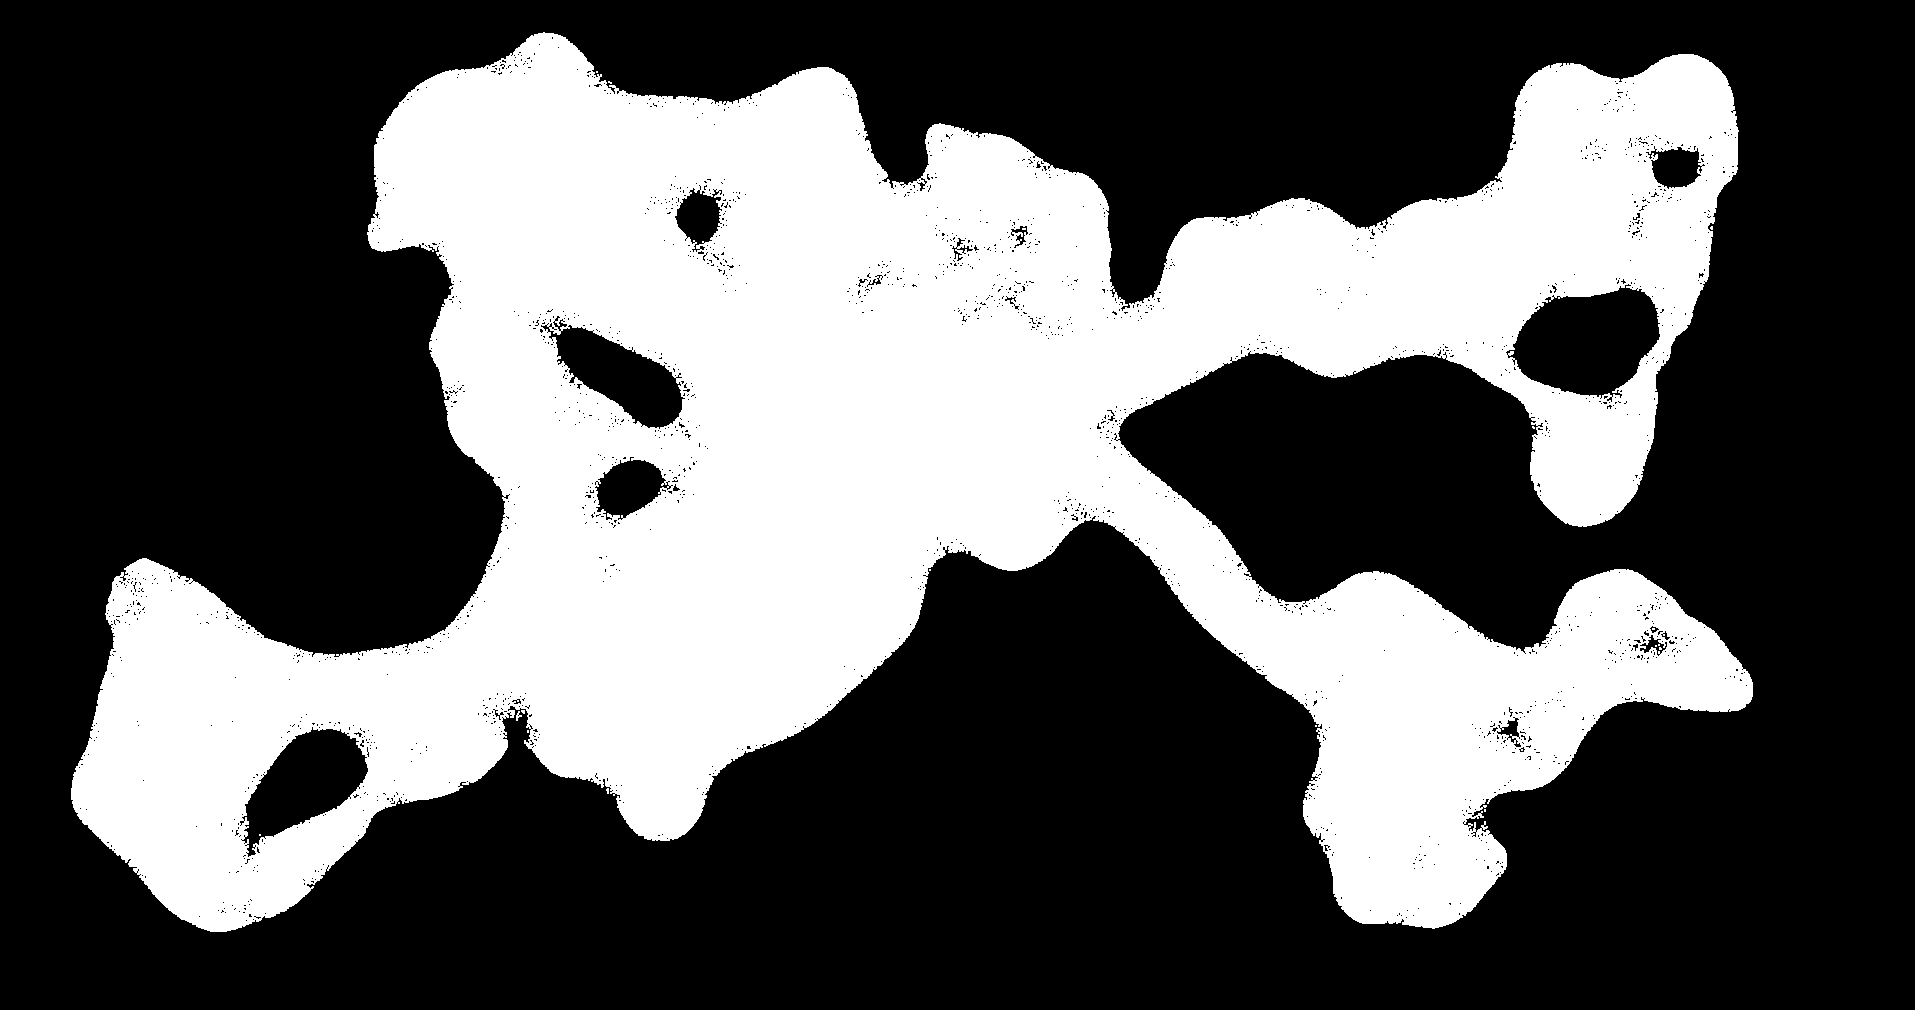
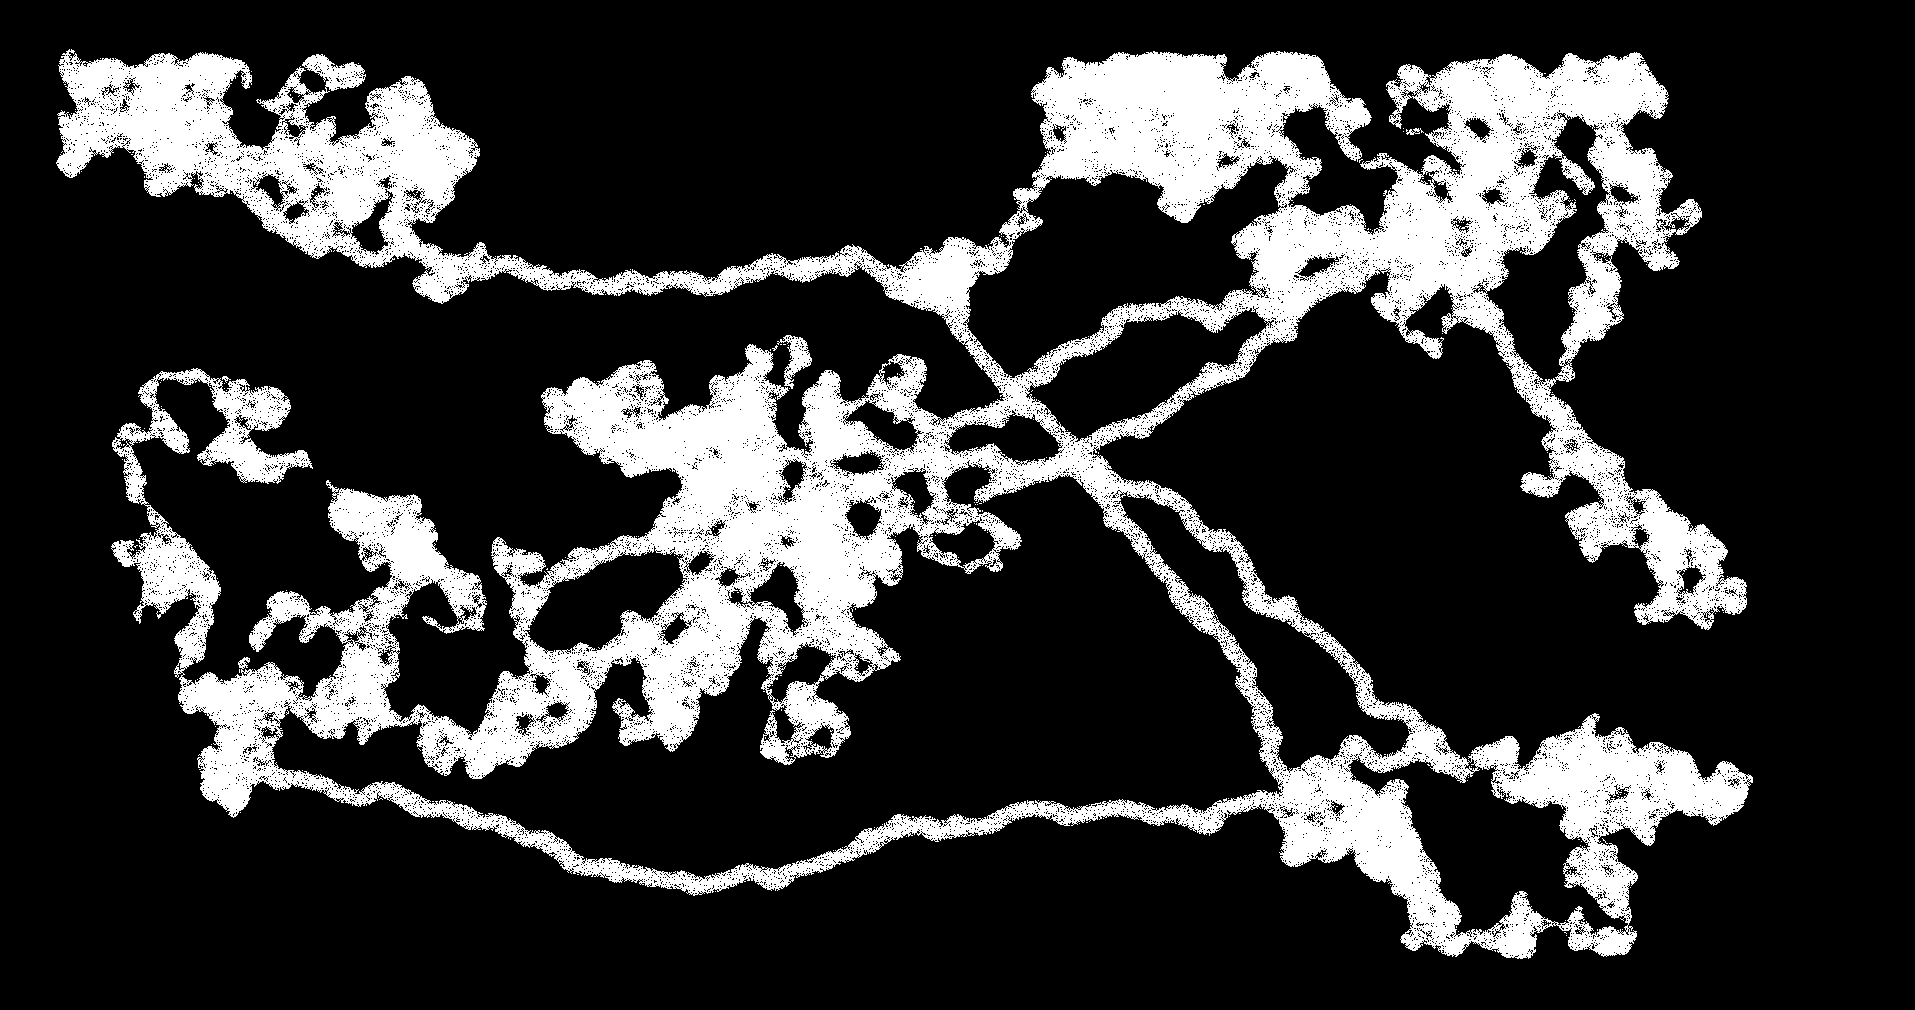
Optimized saving and drawing map logic

diff --git a/MapGenerator.py b/MapGenerator.py
@@ -53,8 +53,8 @@ class MapGenerator():
         self.process_map()
 
         # Display and save the map
-        self.draw_map(self.bin_map)
         self.save_map()
+        self.draw_map()
         
     # Create multiple worms and let them eat the map simultaneously
     # while displaying the loading screen
@@ -122,8 +122,8 @@ class MapGenerator():
         return cleaned_image
 
     # Dispaly the map in the window
-    def draw_map(self, input_map, x1=0, x2=Assets.FULLSCREEN_W-1, y1=0, y2=Assets.FULLSCREEN_H-1):
-        self.surface = self.game.to_maximised()
+    def draw_map(self): #, input_map, x1=0, x2=Assets.FULLSCREEN_W-1, y1=0, y2=Assets.FULLSCREEN_H-1):
+        """ self.surface = self.game.to_maximised()
 
         # Make the background black
         self.surface.fill(Assets.Colors['BLACK'].value)
@@ -136,24 +136,32 @@ class MapGenerator():
                     case 0: pygame.draw.circle(self.surface, Assets.Colors['WHITE'].value, (x,y), 1)
                     case 2: pygame.draw.circle(self.surface, Assets.Colors['RED'].value, (x,y), 1)
                     
+        self.game.blit_screen() """
+
+        # Maximise the game window
+        self.surface = self.game.to_maximised()
+
+        # Set the map as the new background
+        background_image = pygame.image.load(Assets.Images['CAVE_MAP'].value)
+        self.surface.blit(background_image, (0, 0))
         self.game.blit_screen()
 
     # Save the generated map
     def save_map(self):
-        # Ensure the folder exists, create it if not
-        if not os.path.exists(os.path.join('Assets', 'Cave_map')):
-            os.makedirs(os.path.join('Assets', 'Cave_map'))
-        
-        pygame.image.save(self.surface, Assets.Images['CAVE_MAP'].value)
-        
-        # Set the saved image as the new background
-        background_image = pygame.image.load(Assets.Images['CAVE_MAP'].value)
-         # Clear the game window
-        self.surface.fill(Assets.Colors['BLACK'].value)
-        
-        background_image = pygame.transform.scale(background_image, (Assets.FULLSCREEN_W, Assets.FULLSCREEN_H)) 
-        self.surface.blit(background_image, (0, 0))
-        pygame.display.update()
+        # Ensure the folder exists, otherwise create it
+        if not os.path.exists(os.path.join('Assets', 'Cave_Map')):
+            os.makedirs(os.path.join('Assets', 'Cave_Map'))
+
+        # Change the current directory
+        directory = os.path.join(Assets.GAME_DIR, 'Assets', 'Cave_Map')
+        os.chdir(directory)
+
+        # Extend values from [0,1] to [0,255]
+        byte_map = np.where(self.bin_map==1, 0, 255)
+
+        # Save the map as a PNG image and change back the directory
+        cv2.imwrite('map.png', byte_map)
+        os.chdir(Assets.GAME_DIR)
        
     # Model a worm that eats away randomically at the map
     def worm(self, x, y, step, stren, life, id):

diff --git a/Assets.py b/Assets.py
@@ -5,12 +5,12 @@ from enum import Enum
 root = tkinter.Tk()
 
 # Game directory: ..\CaveGame
-CURRENT_DIR = os.path.dirname(os.path.abspath(__file__))
+GAME_DIR = os.path.dirname(os.path.abspath(__file__))
 
 # Display dimensions
 DISPLAY_W = 1200
 DISPLAY_H = 750
-FULLSCREEN_W = 1920 - 5
+FULLSCREEN_W = 1920 - 5 # root.winfo_screenwidth() - 5
 FULLSCREEN_H = root.winfo_screenheight() - 70
 
 # Lists for menu voices and settings
@@ -31,21 +31,21 @@ class Colors(Enum):
         BLUE       = (0,0,255)
         
 class Fonts(Enum):
-        BIG        = os.path.join(CURRENT_DIR, 'Assets', 'Fonts', 'Cave-Stone.ttf')  
-        SMALL      = os.path.join(CURRENT_DIR, 'Assets', 'Fonts', '8-BIT.TTF') 
+        BIG        = os.path.join(GAME_DIR, 'Assets', 'Fonts', 'Cave-Stone.ttf')  
+        SMALL      = os.path.join(GAME_DIR, 'Assets', 'Fonts', '8-BIT.TTF') 
         
 class Audio(Enum):
-        AMBIENT    = os.path.join(CURRENT_DIR, 'Assets', 'Audio', 'Menu.wav')
-        BUTTON     = os.path.join(CURRENT_DIR, 'Assets', 'Audio', 'Button.wav')
+        AMBIENT    = os.path.join(GAME_DIR, 'Assets', 'Audio', 'Menu.wav')
+        BUTTON     = os.path.join(GAME_DIR, 'Assets', 'Audio', 'Button.wav')
 
 class Images(Enum):
-        CAVE         = os.path.join(CURRENT_DIR, 'Assets', 'Images', 'cave.jpg')
-        DARK_CAVE    = os.path.join(CURRENT_DIR, 'Assets', 'Images', 'cave_black.jpg')
-        GAME_ICON    = os.path.join(CURRENT_DIR, 'Assets', 'Images', 'drone.png')
-        GAME_ICON_BG = os.path.join(CURRENT_DIR, 'Assets', 'Images', 'drone_BG.jpg')
-        ROVER        = os.path.join(CURRENT_DIR, 'Assets', 'Images', 'rover_top.png')
-        DRONE        = os.path.join(CURRENT_DIR, 'Assets', 'Images', 'drone_top.png')
-        CAVE_MAP     = os.path.join(CURRENT_DIR, 'Assets', 'Cave_map', 'map.png')
+        CAVE         = os.path.join(GAME_DIR, 'Assets', 'Images', 'cave.jpg')
+        DARK_CAVE    = os.path.join(GAME_DIR, 'Assets', 'Images', 'cave_black.jpg')
+        GAME_ICON    = os.path.join(GAME_DIR, 'Assets', 'Images', 'drone.png')
+        GAME_ICON_BG = os.path.join(GAME_DIR, 'Assets', 'Images', 'drone_BG.jpg')
+        ROVER        = os.path.join(GAME_DIR, 'Assets', 'Images', 'rover_top.png')
+        DRONE        = os.path.join(GAME_DIR, 'Assets', 'Images', 'drone_top.png')
+        CAVE_MAP     = os.path.join(GAME_DIR, 'Assets', 'Cave_Map', 'map.png')
 
 class RectHandle(Enum):
         CENTER     = 'Center'

diff --git a/SimulationMenu.py b/SimulationMenu.py
@@ -21,7 +21,7 @@ class SimulationMenu(Menu):
 
         self.mode     = 0
         self.map_dim  = 0
-        self.n_drones = 2
+        self.n_drones = 3
        
         # Define positions for menu text
         self.align_left      = self.mid_w - 50
@@ -239,7 +239,7 @@ class SimulationMenu(Menu):
                 case 'Drones':
                     match self.n_drones:
                         case 8:
-                            self.n_drones = 2
+                            self.n_drones = 3
                         case _:
                             self.n_drones += 1
                     return
@@ -278,7 +278,7 @@ class SimulationMenu(Menu):
     # Save selected options
     def save_symSettings(self):
         # Set configuration file path
-        config_path = (os.path.join(Assets.CURRENT_DIR, 'GameConfig', 'symSettings.ini'))  
+        config_path = (os.path.join(Assets.GAME_DIR, 'GameConfig', 'symSettings.ini'))  
         config = configparser.ConfigParser()
 
         # Define the options values

diff --git a/OptionsMenu.py b/OptionsMenu.py
@@ -209,7 +209,7 @@ class OptionsMenu(Menu):
     # Load from file or initialise options
     def load_options(self):
         # Set configuration file path
-        config_path = (os.path.join(Assets.CURRENT_DIR, 'GameConfig', 'options.ini'))  
+        config_path = (os.path.join(Assets.GAME_DIR, 'GameConfig', 'options.ini'))  
         
         # Initialise options for the very first time
         if not os.path.exists(config_path):
@@ -233,7 +233,7 @@ class OptionsMenu(Menu):
     # Save selected options
     def save_options(self):
         # Set configuration file path
-        config_path = (os.path.join(Assets.CURRENT_DIR, 'GameConfig', 'options.ini'))  
+        config_path = (os.path.join(Assets.GAME_DIR, 'GameConfig', 'options.ini'))  
         config      = configparser.ConfigParser()
         
         # Define the options values

diff --git a/MissionControl.py b/MissionControl.py
@@ -57,7 +57,7 @@ class MissionControl():
     # Generate a new drone rect for each drone
     def drone_gen(self):
         num_drones = self.settings[2]
-        print("the nbr of drones is", num_drones)
+        print("the number of drones is", num_drones)
 
         for _ in range(num_drones):
             # Create a new drone rect for each drone
